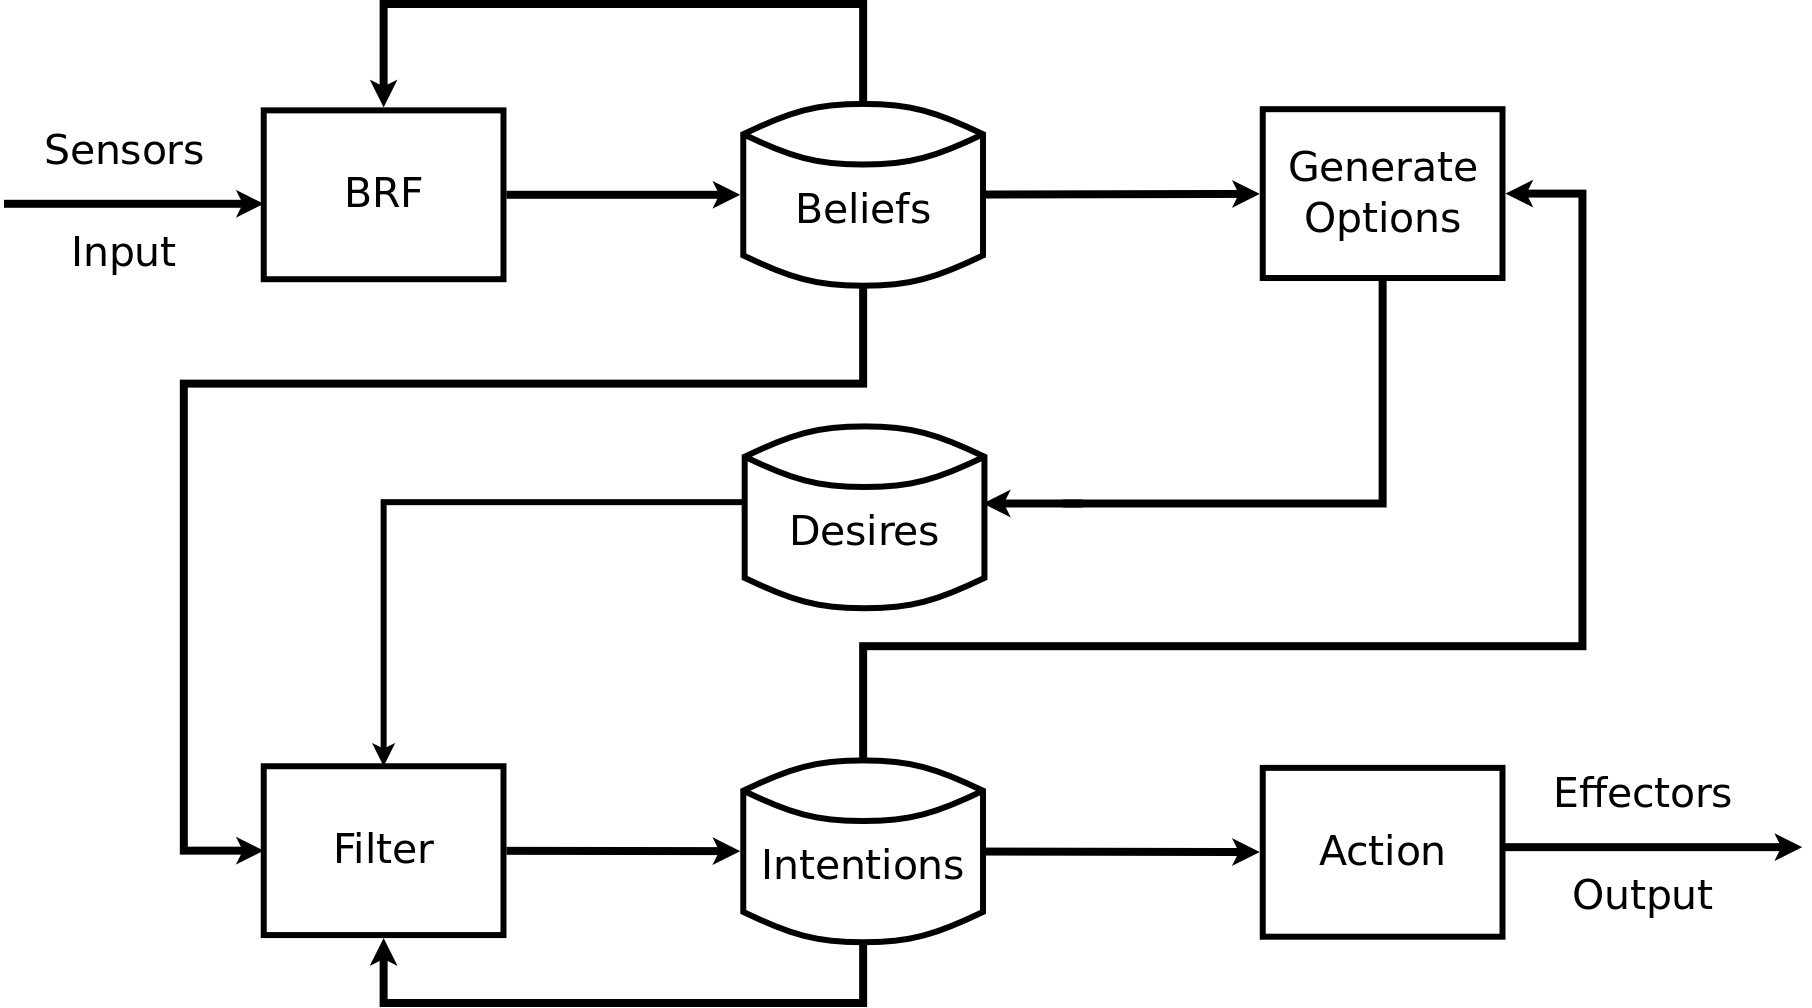
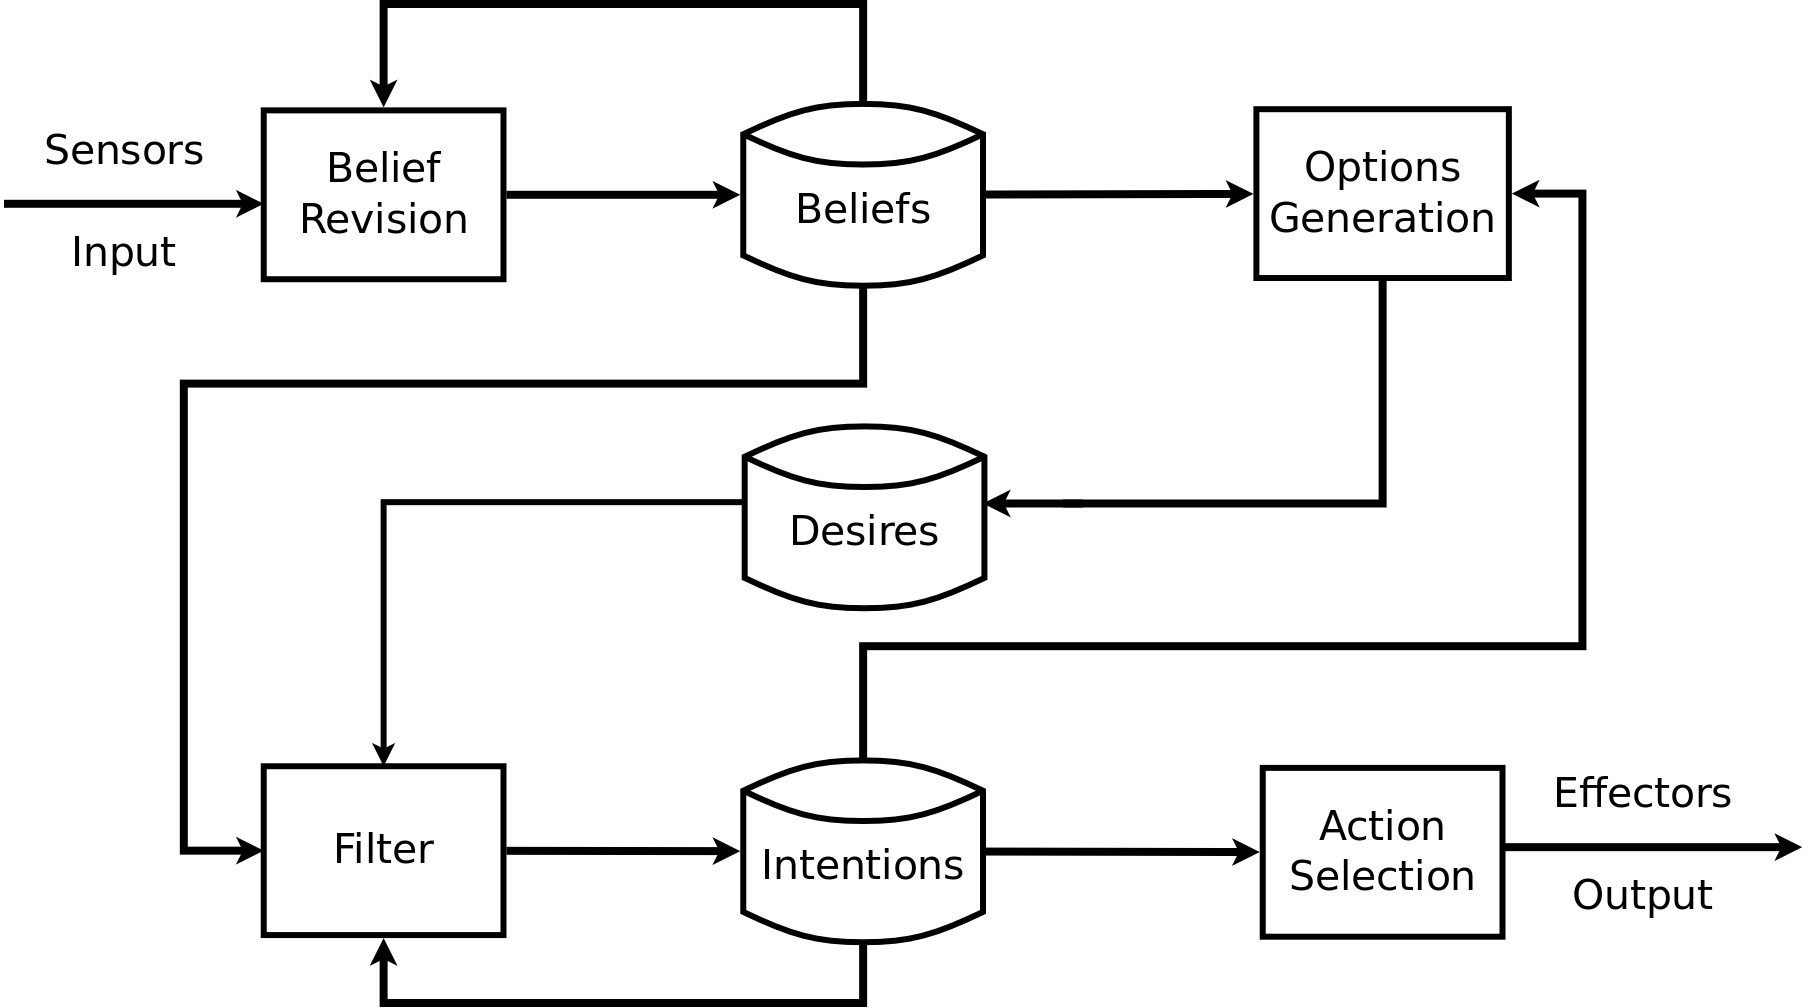
Changed: Proofread BDI.

Changed region(s): [[0.6799, 0.0923, 0.8653, 0.2768], [0.7108, 0.7996, 0.8344, 0.8919], [0.1545, 0.1538, 0.2472, 0.246]]

diff --git a/final_report/content/fundamentals/BDI.tex b/final_report/content/fundamentals/BDI.tex
@@ -8,13 +8,13 @@ The BDI logic system is quite easy to implement in software agents and to some e
 Hence, it has been widely used in the field of artificial intelligence in computer science.
 This section begins with the roots of the BDI model by mentioning the scientific papers that led to it.
 It then continues with an explanation of practical reasoning after which the components of the BDI model are presented in greater detail.
-% TODO if there is more to come, I will add it here. I still haven't made it through this text.
 
 In 1987, Bratman~\cite{MICHAEL_PlansResource_1988} discussed the relationship between beliefs, desires, intentions and actions as well their roles in agent behaviours.
 This can be seen as the introduction of the BDI model which was revised in 1991 by Rao and Georgeff~\cite{rao_modeling_1991}.
 They formalised the model to a first order logic and treated beliefs, desires and intentions as three modal operators while giving intentions equal importance compared to beliefs and desires.
 Rao and Georgeff then continued to apply this theoretical foundation to concrete BDI agents, applying them in an airline traffic management application~\cite{Rao_BDITheory_1995}.
-Nowadays, BDI agents are deployed in high technology industrial areas such as fault diagnosis on space shuttles, but also in commercial fields and entertainment such as robot soccer games.
+Nowadays, BDI agents are deployed in high technology industrial areas such as space shuttle development.
+For example, PRS~\cite{Ingrand_PRS_1992} and dMARS~\cite{Mark_dMARS_2004} are both BDI-based systems for the reaction control system of the NASA Space Shuttle Discovery.
 
 The BDI model has its roots in philosophy as found in Bratman's theory of practical reasoning~\cite{Sebastian_Hierarchical_2006}.
 Practical reasoning involves two important processes: deciding what goals should be achieved, and how they should be achieved.
@@ -90,117 +90,86 @@ Its components are explained in the following paragraphs.
 \begin{figure}[htbp]
   \centering
   \includegraphics[width=\textwidth]{images/BDIAr}
-  \caption{Brief BDI architecture~\cite{BDIA}}
+  \caption{Brief BDI architecture~\cite{BDIA}. Squares symbolise functions whereas the elliptic shapes symbolise data sets. Arrows indicate data transmission.}
   \label{fig:bdi_architecture}
 \end{figure}
 
-The sensors of a BDI agent perceive the environment and convert the perceptions to signals as inputs for the belief revision function (short: \emph{BRF}).
+The sensors of a BDI agent perceive the environment and convert the perceptions $P$ to signals as inputs for the \emph{belief revision function}.
 This function collects the external perceptions as well as the beliefs which are already stored in the beliefs.
 It then processes the information and updates the beliefs accordingly.
 The belief revision function prefers minimal change over modifying a lot and hence tries to preserve as much information as possible~\cite{Antje_SpatialBelief_2011}.
-While processing the new and old information, the BRF will also solves inconsistencies, e.g.\ when an agent perceives information which contradicts a belief it has.
+While processing the new and old information, the belief revision function will also solves inconsistencies, e.g.\ when an agent perceives information which contradicts a belief it has.
 
-The belief set's data may be modelled as sentences, rules or some other manifestations.
+The \emph{belief set}'s data may be modelled as sentences, rules or some other manifestations.
+Formally, we denote the belief set with the letter $B$.
 In the \emph{AGM approach} (named after their proponents, Alchourrón, Gärdenfors, and Makinson)~\cite{alchourron_revision_1985}, an agent's beliefs are modeled by a deductively closed set of formulas called a \emph{belief set}~\cite{James_revise_2011}.
 This approach is broadly used in belief revision research.
 It makes several postulates for one revision operator which mapping each belief set and one sentence of beliefs to generate new beliefs.
 Meanwhile, these postulates allow the belief revision process to retain as many previous beliefs as possible to reduce the amount of change.
 
-The option generator commits a list of desires into the desire set.
+The \emph{option generator} commits a list of desires into the \emph{desire set} $D$.
 It determines the desires depending on the agent's current beliefs and current intentions.
 The desire set contains desires, which express the agent's wishes it wants to achieve.
 Next, the filter determines the agent's intentions depending on the current beliefs, desires, and intentions.
 Only achievable and rational desires will then become intentions.
 
-The intention set stores the agent's current focus, which is accompanied by a concrete plan.
+The \emph{intention set} $I$ stores the agent's current focus, which is accompanied by a concrete plan.
 Once an intention is adopted, hence stored in the intention set, the agent will pick and commit to one intention in order to achieve it.
-There are three commitment strategies proposed by Rao and Georgeff~\cite{rao_modeling_1991}: \emph{blind}, \emph{single minded} and \emph{open minded}.
-\begin{enumerate}
-  \item A blindly committed agent is an agent who maintains his intentions until he believes that he has achieved them.
-  \item A single minded committed agent is an agent who maintains his intentions as long as he believes that they are still options.
-  \item An open minded committed agent is an agent who maintains his intentions as long as they are still goals. %TODO all these sentences quote ~\cite{Roberto_BDIATL_2005} without being marked as such.
-\end{enumerate}
-The action selection function determines the actions to perform depending on current intentions.
-We would achieve nothing if we just have intentions instead of knowing how to do it.
-Normally, there is a plan library of mappings between the intentions and actions.
-The intentions go through the planner until the actions which mapped to the corresponding intentions are found.
-Finally, a plan of how to achieve the intentions come out and the agent will execute these actions.
+The \emph{action selection function} determines the actions to perform depending on the current intentions.
+This function draws its knowledge from a plan library which is not depicted in \autoref{fig:bdi_architecture}.
+Finally, the matching plan is inspected for the next action $A$ to be executed by the agent.
 
-\autoref{tab:BDIC} summarises the BDI agent architecture as described by Michael Wooldridge~\cite{Gerhard_MultiSystem_1999}.
 \begin{table}[!hbp]
   \label{tab:BDIC}
   \begin{tabularx}{\textwidth}{|l|p{5cm}| >{$}X<{$} |}
   \hline
   \textbf{Component} & \textbf{Meaning} & \textbf{Formalisation} \\
     \hline
-    Belief set & Information about the current environment which the agent has & B \\
+    Belief set & Information about the environment which the agent is located in & B \\
     \hline
-    Belief revision function & determines a new set of beliefs depending on perceptual inputs and the agent's current beliefs & B \times P \to B\\
+    Belief revision function & Determines a new set of beliefs depending on perceptual inputs and the agent's current beliefs & B \times P \to B\\
     \hline
-    Options & determines desires depending on the agent's current beliefs and current intentions & B \times I \to D \\
+    Options generation function & Determines desires depending on the agent's current beliefs and current intentions & B \times I \to D \\
     \hline
-    Desires set & possible courses of actions available to the agent & D \\
+    Desire set & Are states which an agent wishes to bring about & D \\
     \hline
-    Filter & determines the agent's intentions depending on current beliefs, desires, and intentions & B \times I \times D \to I \\
+    Filter function & Determines the agent's intentions depending on current beliefs, desires, and intentions & B \times D \times I \to I \\
     \hline
-    Intentions set & the agent's current focus & I \\
+    Intention set & The agent's current focus & I \\
     \hline
-    Action selection function & determines an action to perform depending on current intentions & I \to A  \\
+    Action selection function & Determines an action to perform depending on current intentions & I \to A  \\
     \hline
   \end{tabularx}
-  \caption{Components of brief BDI agent architecture}
+  \caption{Meaning and formalisation of the components of the BDI agent architecture}
 \end{table}
-
-\autoref{tab:BDIC} shows the order of using the seven components of BDI architecture as well as giving the formulas for each function.
-If we denote $Bel$ a set of all possible beliefs, $Des$ a set of all possible desires and $Int$ a set of all possible intentions.
-Then an agent's state can be presented as $(B,D,I)$ with $B \subseteq Bel, D \subseteq  Des, I \subseteq  Int$~\cite{Gerhard_MultiSystem_1999}.
-$P$ is a set of current perception which are obtained by the sensors of the agent.
-We can understand the process of BDI agent working better through seeing this table.
-Firstly, $B$ stores some beliefs which are read by BRF (belief revision function) while it getting the perception from the sensors.
-After operating BRF, some of beliefs are removed, some are added, some are modified and so on.
-So the new belief set $B$ built on basis of $P$ and original $B$.
-Subsequently, Options use the new $B$ and current intentions set $I$ to determine the desires set $D$ and store it.
-Moreover, the filter select intentions by referencing $B,D,I$, then the new intentions set comes out.
-Finally, the action selection function makes a plan to execute actions to achieve $I$.
-
+\autoref{tab:BDIC} summarises the BDI agent architecture as described by Michael Wooldridge~\cite{Gerhard_MultiSystem_1999}.
 The process of $B \times P \to B$, $B \times I \to D$ and $B \times I \times D \to I$ belongs to deliberation.
-They are deliberated in-depth gradually and the range of intentions are narrowed, especially the filter which should consider of all the datasets.
-At last, the intentions are limited in particular ranges.
-The plans will be made more effective and more targeted.
-$I \to A $ can be treated as the process of means-ends reasoning, whose output is planning.
-$B,D I$ are connected to function parts instead of connecting to each other directly, because they are treated as just databases and need rules or mechanism to help them execute actions.
+They are deliberated gradually, so the range of intentions is narrowed down.
+This happens especially due to the filter function which operates on all of the datasets.
+$I \to A$ can be treated as the process of means-ends reasoning as the difference between the committed intention and the current situation decreases.
+$B,D$ and $I$ are connected through functions instead of being connected directly.
+This is because they are treated simply as functionless databases on which algorithms may work.
 
-With the increasing needs of intelligent agents, more and more applications base on BDI model are applied in our life.
-For example, PRS~\cite{Ingrand_PRS_1992} and dMARS~\cite{Mark_dMARS_2004} are both BDI-based systems for the reaction control system of the NASA Space Shuttle Discovery.
-Additionally, the air-traffic management system OASIS~\cite{Magnus_OASIS_1992} is well-known as a BDI-based agent.
-The system architecture of OASIS is made up of one aircraft agent for each arriving aircraft and a number of global agents, including a sequencer, wind modeller coordinator and trajectory checker~\cite{Rao_BDITheory_1995}.
-Furthermore, robot soccer which is designed using BDI model becomes very popular in universities.
-We can feel that, BDI agents bring many profits to human beings, they make the life more convenient.
-However, there is still space for development in this field.
+%With the increasing needs of intelligent agents, more and more applications base on BDI model are applied in our life.
 
-Although the BDI model is developed during about 30 years, some obstacles are not overcome and some challenges are still there.
-Most goals of BDI implementations are not explicit, and these goals should be reasoned out from current beliefs and intentions by agents themselves.
-Besides, the BDI model contains three attributes: beliefs, desires and intentions.
+%Additionally, the air-traffic management system OASIS~\cite{Magnus_OASIS_1992} is well-known as a BDI-based agent.
+%The system architecture of OASIS is made up of one aircraft agent for each arriving aircraft and a number of global agents, including a sequencer, wind modeller coordinator and trajectory checker~\cite{Rao_BDITheory_1995}.
+%Furthermore, robot soccer which is designed using BDI model becomes very popular in universities.
+%We can feel that, BDI agents bring many profits to human beings, they make the life more convenient.
+%However, there is still space for development in this field.
+
+Although the BDI model has been introduced about 30 years ago, it is still a field of on-going development.
+The BDI model restricts itself to the three main components: beliefs, desires and intentions.
 In some situations, not all the three attributes are needed.
-Sometimes, an agent collects the beliefs and jumps to intentions directly without desires.
-However, for some distributed multi-agents, just three attributes are not sufficient to execute the actions.
-Furthermore, the agents in the multi-agents system do not have an explicit mechanism for interaction and integration among them.
-When an increasing number of agents join the system, the interaction with each agent will be more and more difficult.
-As an intelligent agent, the BDI agent do not have a good ability to learn from the past behavior or other agents’ behavior.
-So that the rate of development will not be high, lacking mechanisms to learn from others.
-However, BDI model has its own advantages.
-Beliefs, desires and intentions are similar to the mental activities of human beings.
-Therefore, it is not easy to construct the logics or mechanisms for it.
-With the wildly used of computers and mobile devices, the situation of multi-agent interaction will be better.
-As many computer languages and logic languages are grasped by more people, the BDI agent will bring human beings more surprises.
+Sometimes, an agent collects the beliefs and jumps to intentions directly without desires.%TODO add cf \cite{} if you have a paper where desires where left out
+However, for some distributed multi-agents, only three attributes may not be sufficient.
+One problem here is for example that the BDI model does not capture communication between agents or interaction between them.
 
 Beliefs, desires and intentions were introduced in this section.
 The BDI agent belongs to the kind of intelligent agents which are autonomous, computational entities.
-The BDI agent executes actions on the basis of BDI model that containing three main attributes which have close relationship between each other.
-The brief BDI agent architecture is a clear description of process of how BDI agents work.
-They follows the practical reasoning theory.
-Different BDI implementations show different architectures, but the in core of these agents are still notions of beliefs, desires and intentions.
+They follow the practical reasoning theory.
+Different BDI implementations show different architectures, but the core of these agents is most of the time built by beliefs, desires and intentions.
 
-With an increasing number of BDI applications coming into the human life, more challenges come up too.
-One of such challenges, which is the correctness of agents' behaviour, is described in the ~\autoref{fun:formal_methods} that follows.
-Also, in the following section after introducing all the required logical operations and methods, a sample structure of an abstract BDI interpreter will be given, which also continues the topic discussed in this section.
+With an increasing number of BDI applications, more challenges come up too.
+One of such challenges is the correctness of agents' behaviour.
+It is described in the following \autoref{fun:formal_methods}.

diff --git a/final_report/content/implementation/BDI_AS.tex b/final_report/content/implementation/BDI_AS.tex
@@ -32,7 +32,7 @@ An event is internal when a sub-goal needs to be achieved and an external event 
 We have 88 events in total in our program and two of them are presented as follow:
 
 \begin{lstlisting}[caption={Internal Trigger Event.},label={lst:inTrigger}]
-  +!doParry
+  +!doParry:
     energy(Energy)
     & Energy < 2
     <- recharge.
